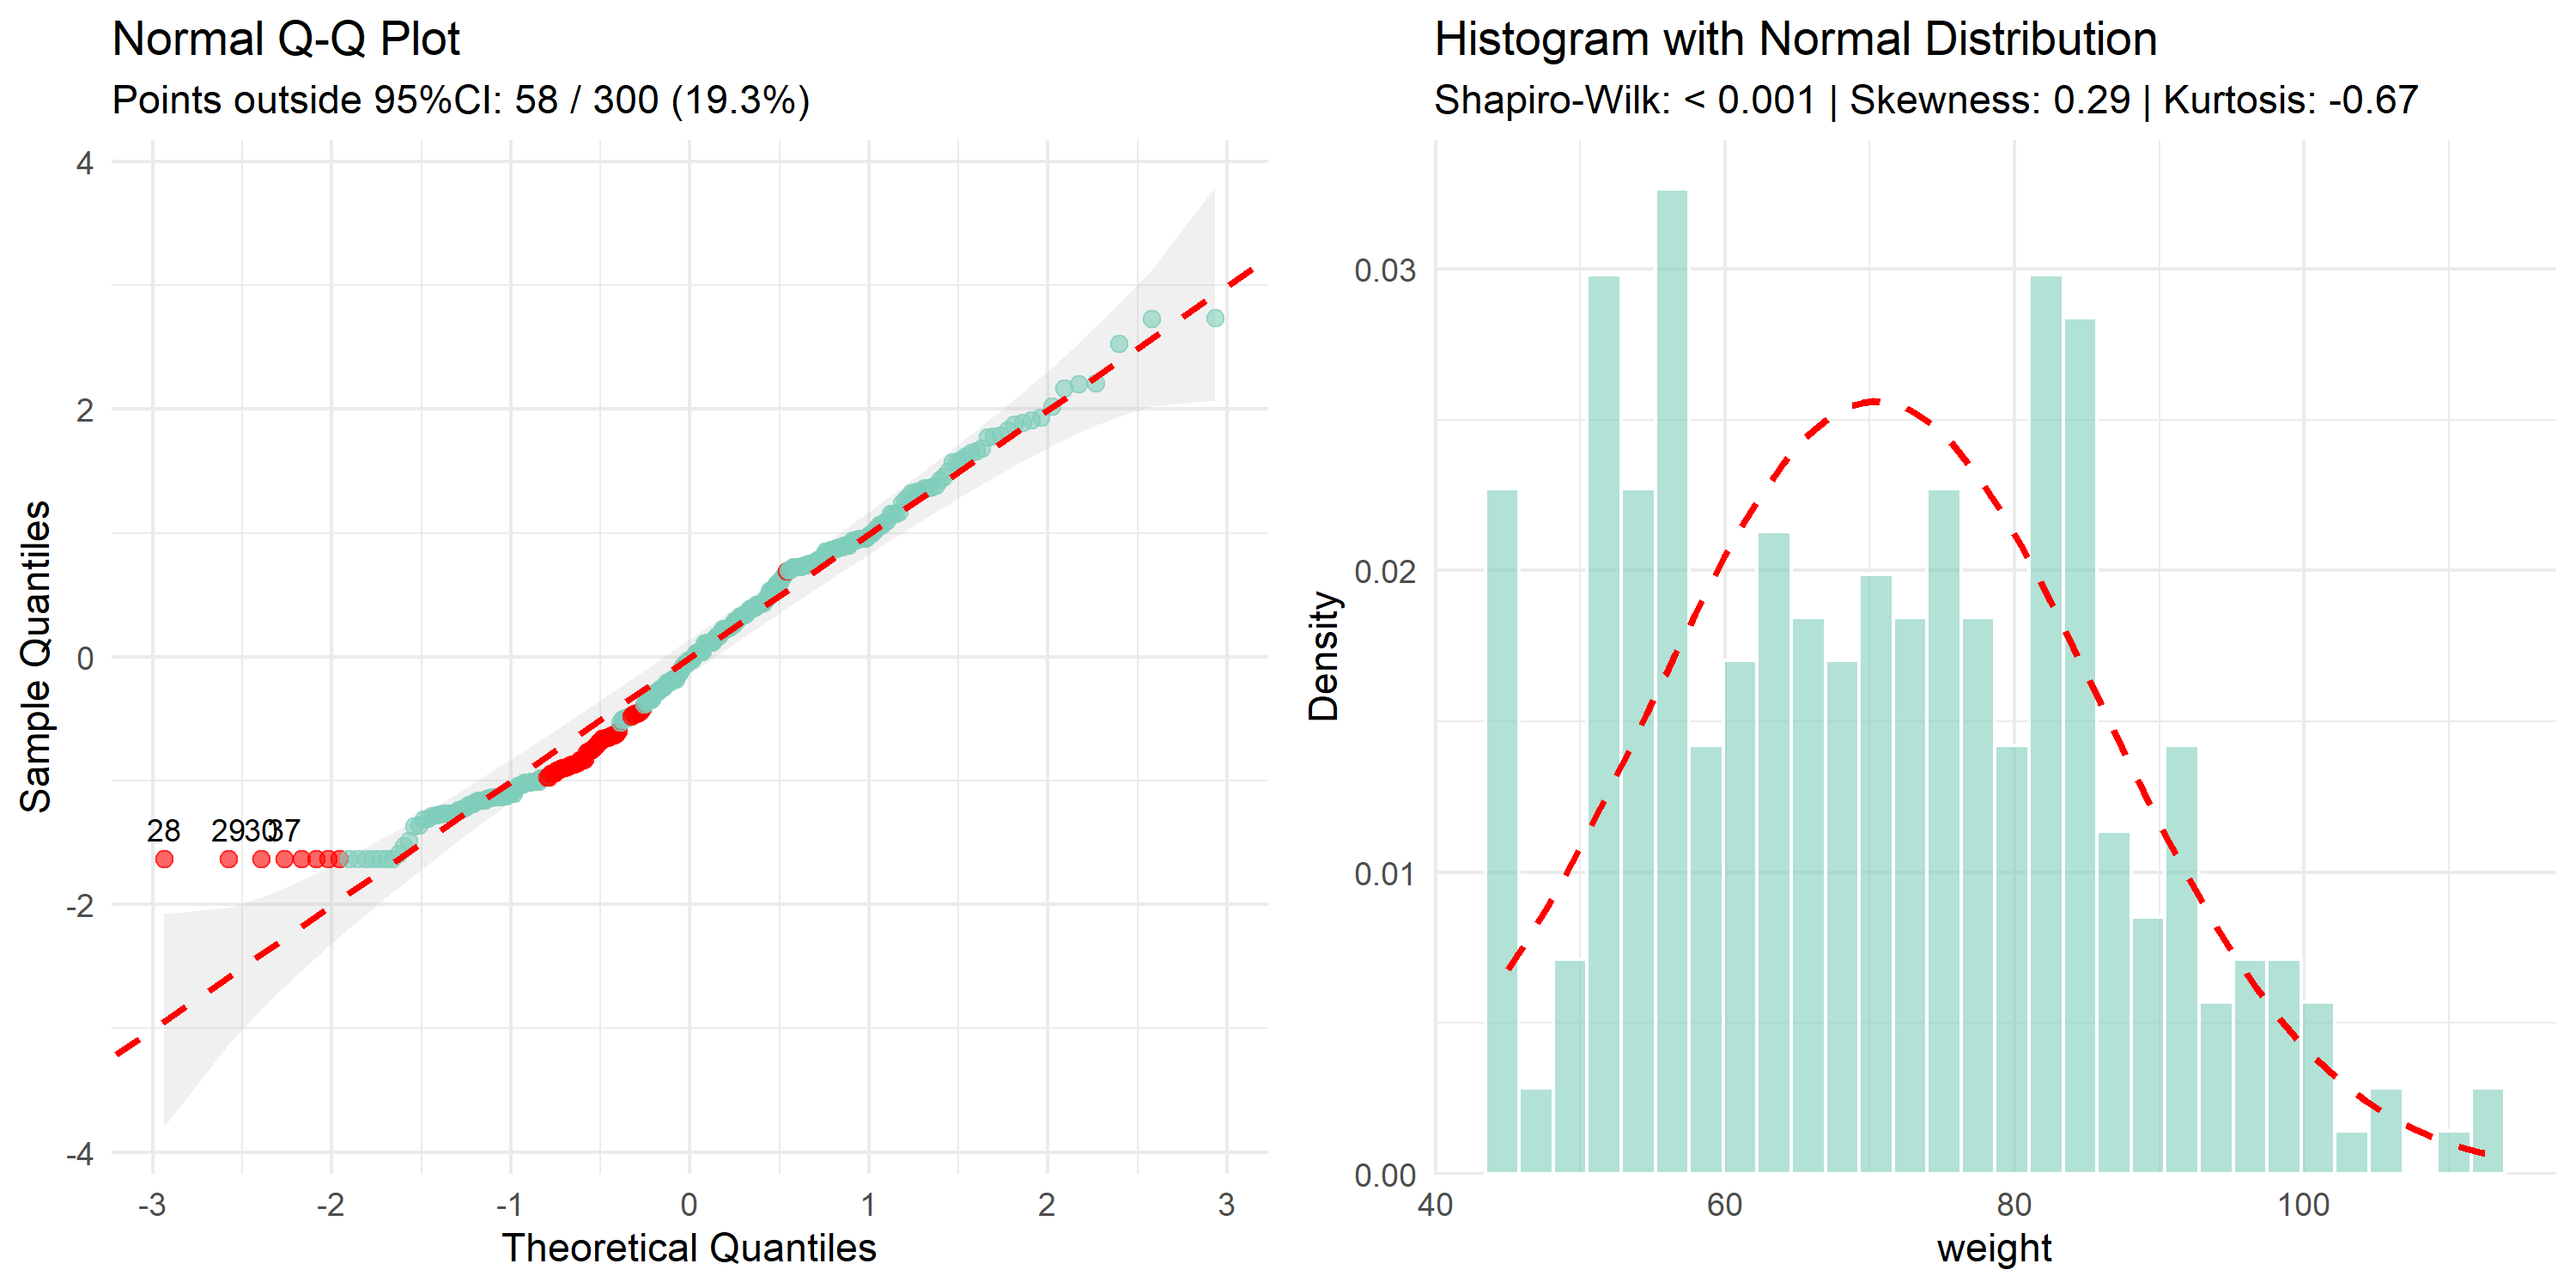
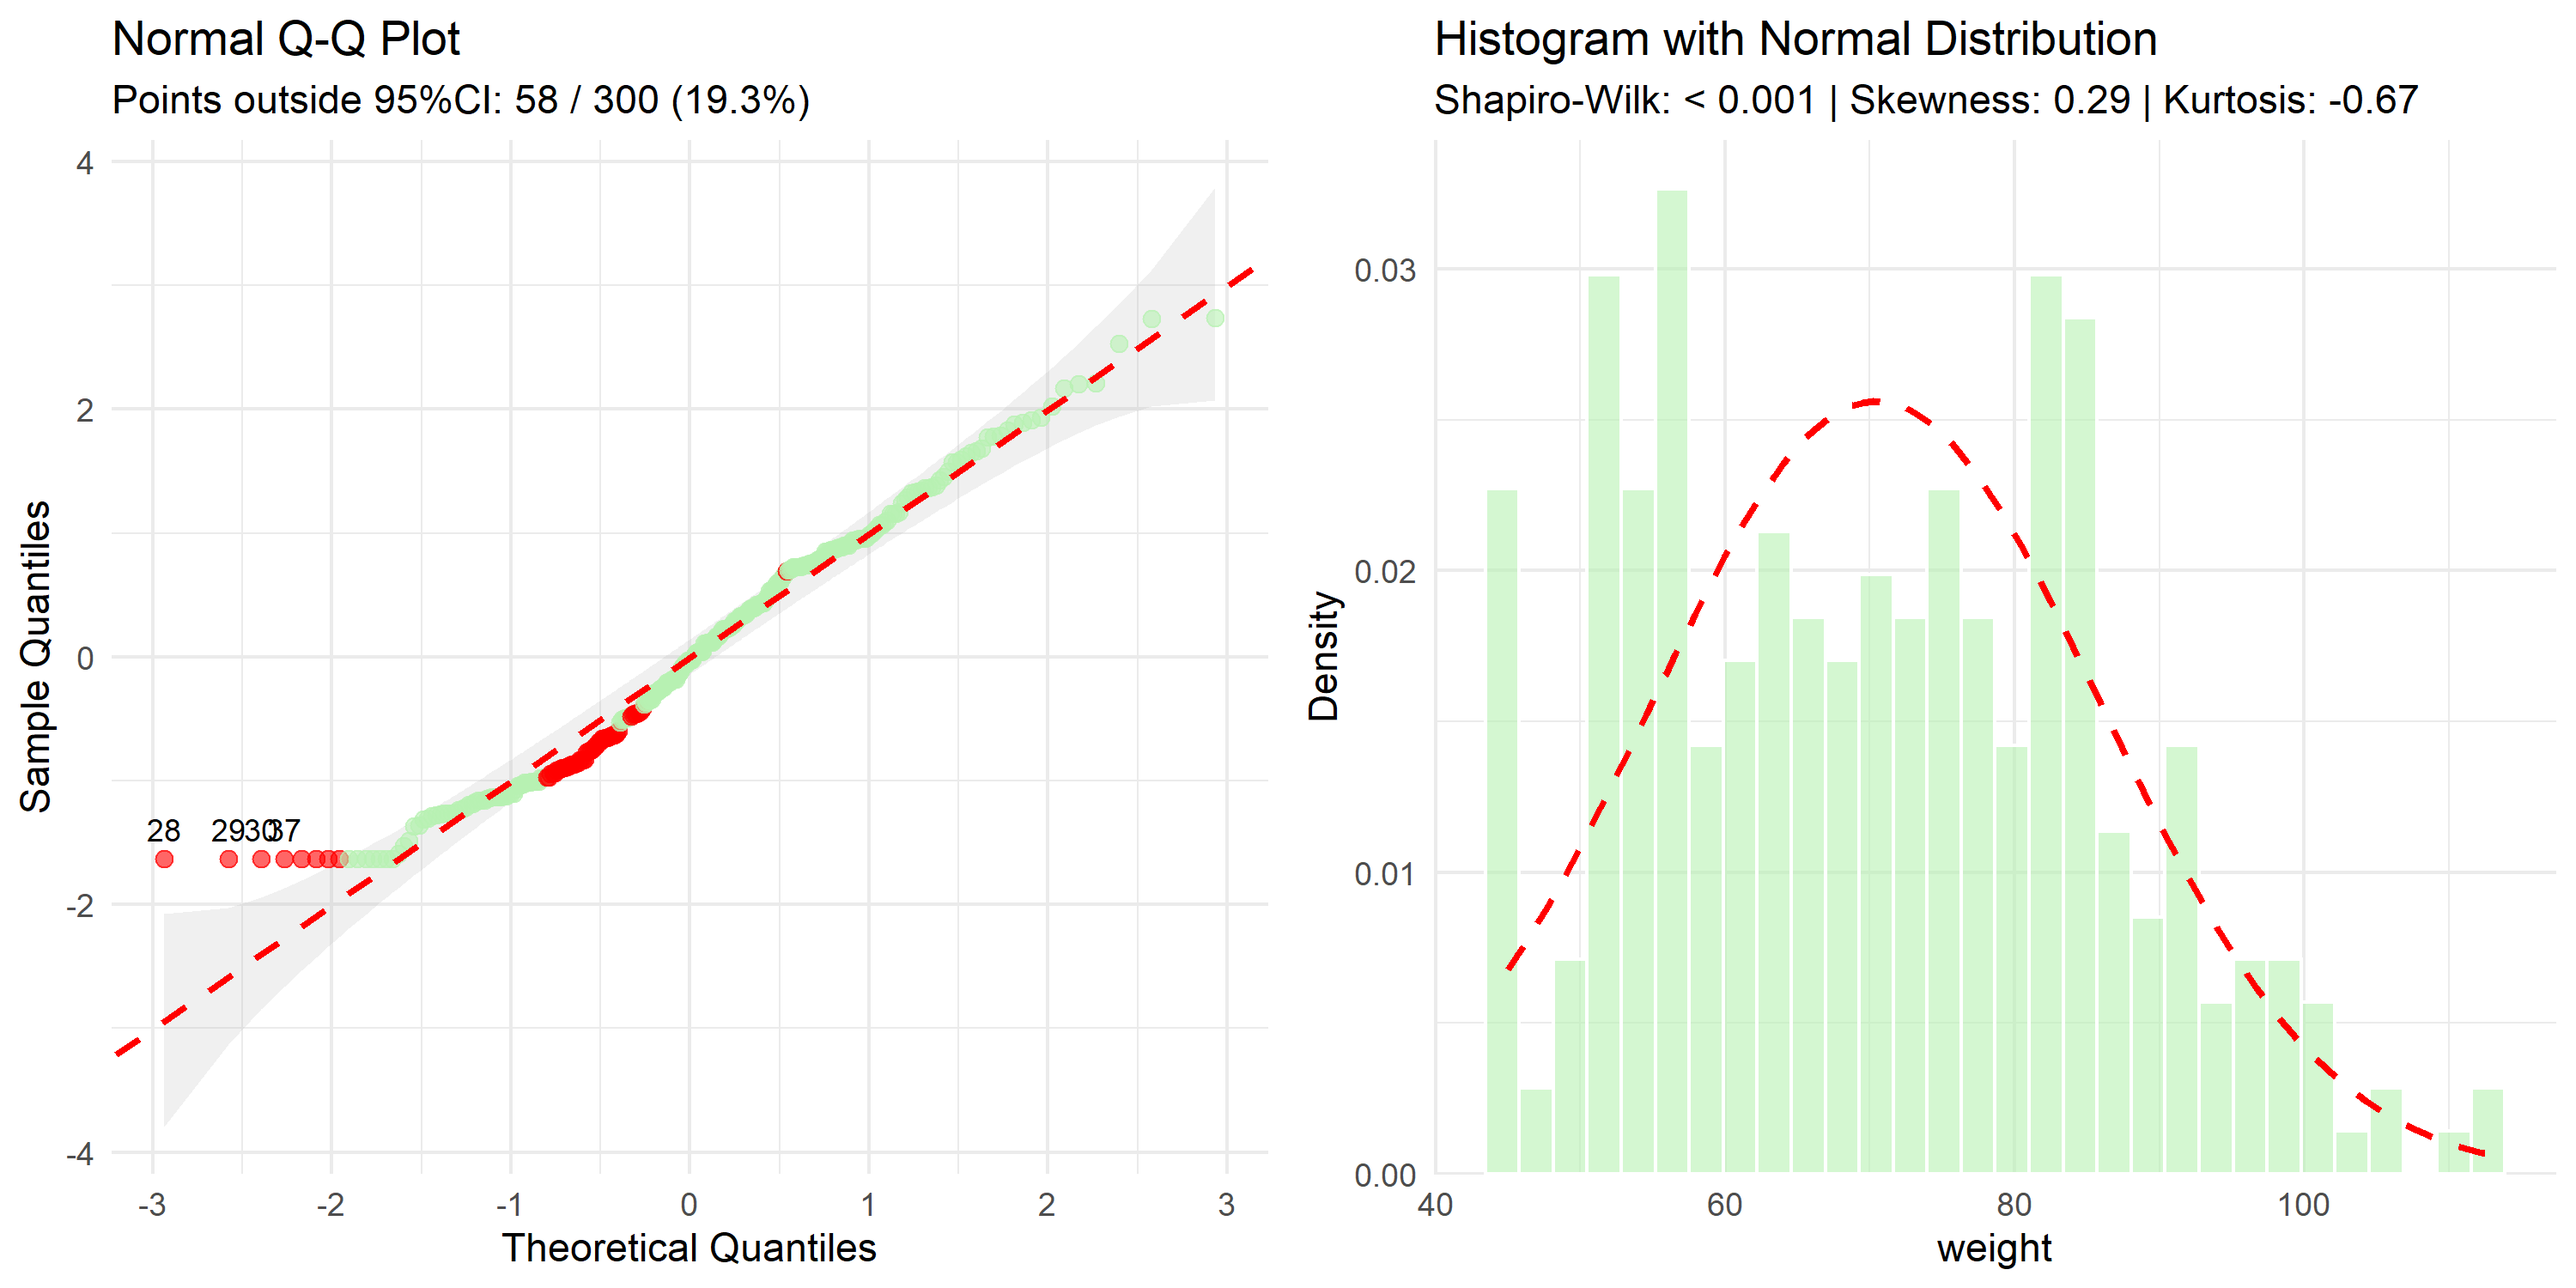
Update default color to #79E1BE

diff --git a/README.md b/README.md
@@ -253,7 +253,7 @@ plot and histogram.
 ``` r
 clinical_df <- clinical_data()
 
-# Normal distribution
+# Normal distributionpaletteer_c("grDevices::TealGrn", 30)
 normality("biomarker", data = clinical_df)
 #> 
 #> Normality Test for 'biomarker' 
@@ -570,33 +570,33 @@ result <- sample_size_range(x1_range = c(0.65, 0.75),
 #> x1: 0.65 to 0.75
 #> x2: 0.65
 #> 
-#> 70% Power: total n = 98 to 430
-#> 80% Power: total n = 130 to 564
-#> 90% Power: total n = 178 to 780
+#> 70% Power: total n = 108 to 474
+#> 80% Power: total n = 144 to 622
+#> 90% Power: total n = 196 to 858
 ```
 
 <img src="man/figures/README-unnamed-chunk-20-1.png" width="100%" />
 
 | power |   x1 |   x2 | x1 - x2 |  n1 |  n2 | total |
 |------:|-----:|-----:|--------:|----:|----:|------:|
-|    70 | 0.65 | 0.65 |    0.00 | 215 | 215 |   430 |
-|    70 | 0.67 | 0.65 |    0.02 | 147 | 147 |   294 |
-|    70 | 0.69 | 0.65 |    0.04 | 106 | 106 |   212 |
-|    70 | 0.71 | 0.65 |    0.06 |  80 |  80 |   160 |
-|    70 | 0.73 | 0.65 |    0.08 |  62 |  62 |   124 |
-|    70 | 0.75 | 0.65 |    0.10 |  49 |  49 |    98 |
-|    80 | 0.65 | 0.65 |    0.00 | 282 | 282 |   564 |
-|    80 | 0.67 | 0.65 |    0.02 | 193 | 193 |   386 |
-|    80 | 0.69 | 0.65 |    0.04 | 140 | 140 |   280 |
-|    80 | 0.71 | 0.65 |    0.06 | 105 | 105 |   210 |
-|    80 | 0.73 | 0.65 |    0.08 |  82 |  82 |   164 |
-|    80 | 0.75 | 0.65 |    0.10 |  65 |  65 |   130 |
-|    90 | 0.65 | 0.65 |    0.00 | 390 | 390 |   780 |
-|    90 | 0.67 | 0.65 |    0.02 | 267 | 267 |   534 |
-|    90 | 0.69 | 0.65 |    0.04 | 193 | 193 |   386 |
-|    90 | 0.71 | 0.65 |    0.06 | 145 | 145 |   290 |
-|    90 | 0.73 | 0.65 |    0.08 | 113 | 113 |   226 |
-|    90 | 0.75 | 0.65 |    0.10 |  89 |  89 |   178 |
+|    70 | 0.65 | 0.65 |    0.00 | 237 | 237 |   474 |
+|    70 | 0.67 | 0.65 |    0.02 | 162 | 162 |   324 |
+|    70 | 0.69 | 0.65 |    0.04 | 117 | 117 |   234 |
+|    70 | 0.71 | 0.65 |    0.06 |  88 |  88 |   176 |
+|    70 | 0.73 | 0.65 |    0.08 |  69 |  69 |   138 |
+|    70 | 0.75 | 0.65 |    0.10 |  54 |  54 |   108 |
+|    80 | 0.65 | 0.65 |    0.00 | 311 | 311 |   622 |
+|    80 | 0.67 | 0.65 |    0.02 | 213 | 213 |   426 |
+|    80 | 0.69 | 0.65 |    0.04 | 154 | 154 |   308 |
+|    80 | 0.71 | 0.65 |    0.06 | 116 | 116 |   232 |
+|    80 | 0.73 | 0.65 |    0.08 |  91 |  91 |   182 |
+|    80 | 0.75 | 0.65 |    0.10 |  72 |  72 |   144 |
+|    90 | 0.65 | 0.65 |    0.00 | 429 | 429 |   858 |
+|    90 | 0.67 | 0.65 |    0.02 | 294 | 294 |   588 |
+|    90 | 0.69 | 0.65 |    0.04 | 213 | 213 |   426 |
+|    90 | 0.71 | 0.65 |    0.06 | 160 | 160 |   320 |
+|    90 | 0.73 | 0.65 |    0.08 | 125 | 125 |   250 |
+|    90 | 0.75 | 0.65 |    0.10 |  98 |  98 |   196 |
 
 ### Data Cleaning and Transformation
 
